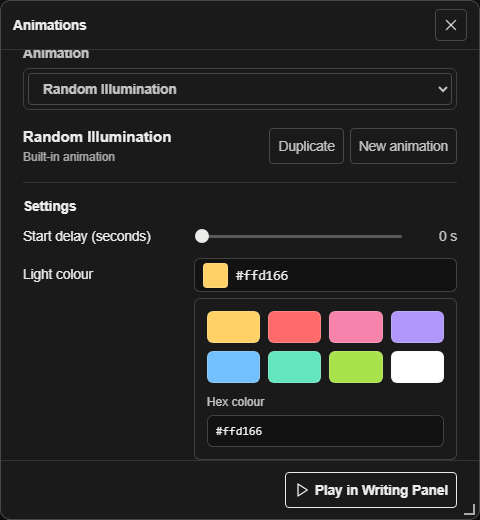
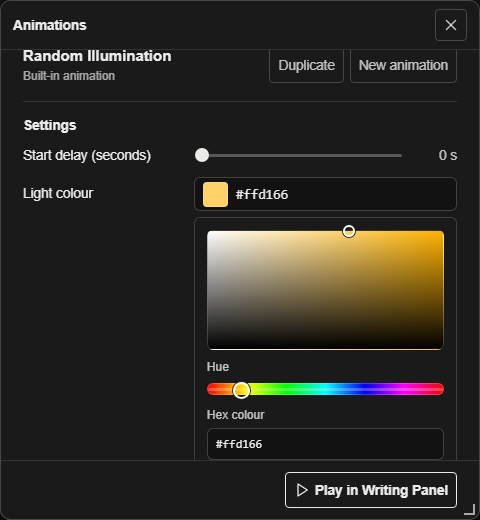
Keep illuminated text sharp and restore continuous colour choice

diff --git a/src/animations/AnimationWindow.tsx b/src/animations/AnimationWindow.tsx
@@ -3,14 +3,9 @@ import { createPortal } from 'react-dom'
 import { Play, X } from 'lucide-react'
 import { markPointerEventHandled } from '../panelSurface'
 import type { AnimationDefinition } from './definitions'
+import { hexToHsv, hsvToHex, type HsvColour } from './colour'
 
 interface Rect { x: number; y: number; width: number; height: number }
-const illuminationColours = [
-  { name: 'Amber', value: '#ffd166' }, { name: 'Coral', value: '#ff6b6b' },
-  { name: 'Pink', value: '#f783ac' }, { name: 'Violet', value: '#b197fc' },
-  { name: 'Blue', value: '#74c0fc' }, { name: 'Teal', value: '#63e6be' },
-  { name: 'Lime', value: '#a9e34b' }, { name: 'White', value: '#ffffff' },
-]
 const isHexColour = (value: string) => /^#[0-9a-f]{6}$/i.test(value)
 let topAnimationLayer = 8
 function viewport(): Rect {
@@ -61,13 +56,30 @@ export function AnimationWindow({ panelId, sourceElement, definitions, selected,
   const [rect, setRect] = useState(() => initialRect(sourceElement))
   const [openColour, setOpenColour] = useState<string | null>(null)
   const [colourText, setColourText] = useState('')
-  const colourPopover = useRef<HTMLDivElement>(null)
+  const [pickerHsv, setPickerHsv] = useState<HsvColour>(() => hexToHsv('#ffd166'))
+  const pickerHsvRef = useRef(pickerHsv)
+  const colourHexInput = useRef<HTMLInputElement>(null)
+  const planePointer = useRef<number | null>(null)
   const colourOpenRef = useRef(false)
   colourOpenRef.current = openColour !== null
   const gesture = useRef<{ pointer: number; element: HTMLElement; mode: 'move' | 'resize'; x: number; y: number; rect: Rect } | null>(null)
 
   useEffect(() => setOpenColour(null), [selected.id])
-  useEffect(() => { if (openColour) colourPopover.current?.scrollIntoView({ block: 'nearest' }) }, [openColour])
+  useEffect(() => { if (openColour) colourHexInput.current?.scrollIntoView({ block: 'nearest' }) }, [openColour])
+
+  function applyColour(id: string, hsv: HsvColour) {
+    pickerHsvRef.current = hsv
+    setPickerHsv(hsv)
+    const hex = hsvToHex(hsv)
+    setColourText(hex)
+    onParameterChange(id, hex)
+  }
+  function moveColourPointer(event: PointerEvent<HTMLDivElement>, id: string) {
+    const bounds = event.currentTarget.getBoundingClientRect()
+    const saturation = Math.min(1, Math.max(0, (event.clientX - bounds.left) / bounds.width))
+    const value = Math.min(1, Math.max(0, 1 - (event.clientY - bounds.top) / bounds.height))
+    applyColour(id, { ...pickerHsvRef.current, saturation, value })
+  }
 
   useEffect(() => {
     root.current?.focus({ preventScroll: true })
@@ -155,19 +167,48 @@ export function AnimationWindow({ panelId, sourceElement, definitions, selected,
           <span>{parameter.label}</span>
           {parameter.type === 'color' ? <div className="animation-color-control">
             <button type="button" className="animation-color-trigger" aria-label={`Choose ${parameter.label.toLowerCase()}`} aria-expanded={openColour === parameter.id} onClick={() => {
-              setColourText(String(parameter.value))
+              const current = isHexColour(String(parameter.value)) ? String(parameter.value) : '#ffd166'
+              const hsv = hexToHsv(current)
+              pickerHsvRef.current = hsv
+              setPickerHsv(hsv)
+              setColourText(current)
               setOpenColour(openColour === parameter.id ? null : parameter.id)
             }}><span className="animation-color-chip" style={{ backgroundColor: String(parameter.value) }} /><span>{parameter.value}</span></button>
-            {openColour === parameter.id && <div ref={colourPopover} className="animation-color-popover" role="group" aria-label={`${parameter.label} picker`}>
-              <div className="animation-color-swatches">{illuminationColours.map(colour => <button key={colour.value} type="button" aria-label={colour.name} title={colour.name} className="animation-color-swatch" style={{ backgroundColor: colour.value }} onClick={() => {
-                setColourText(colour.value)
-                onParameterChange(parameter.id, colour.value)
-              }} />)}</div>
+            {openColour === parameter.id && <div className="animation-color-popover" role="group" aria-label={`${parameter.label} picker`}>
+              <div className="animation-color-plane" role="slider" tabIndex={0} aria-label="Colour shade" aria-valuemin={0} aria-valuemax={100} aria-valuenow={Math.round(pickerHsv.saturation * 100)} aria-valuetext={colourText} style={{ backgroundColor: hsvToHex({ hue: pickerHsv.hue, saturation: 1, value: 1 }) }}
+                onPointerDown={event => {
+                  if (event.button !== 0) return
+                  event.currentTarget.setPointerCapture(event.pointerId)
+                  planePointer.current = event.pointerId
+                  moveColourPointer(event, parameter.id)
+                }}
+                onPointerMove={event => { if (planePointer.current === event.pointerId) moveColourPointer(event, parameter.id) }}
+                onPointerUp={event => { if (planePointer.current === event.pointerId) { planePointer.current = null; event.currentTarget.releasePointerCapture(event.pointerId) } }}
+                onPointerCancel={event => { if (planePointer.current === event.pointerId) planePointer.current = null }}
+                onKeyDown={event => {
+                  const step = 0.02
+                  const next = { ...pickerHsvRef.current }
+                  if (event.key === 'ArrowLeft') next.saturation = Math.max(0, next.saturation - step)
+                  else if (event.key === 'ArrowRight') next.saturation = Math.min(1, next.saturation + step)
+                  else if (event.key === 'ArrowUp') next.value = Math.min(1, next.value + step)
+                  else if (event.key === 'ArrowDown') next.value = Math.max(0, next.value - step)
+                  else return
+                  event.preventDefault()
+                  applyColour(parameter.id, next)
+                }}><span className="animation-color-plane-cursor" style={{ left: `${pickerHsv.saturation * 100}%`, top: `${(1 - pickerHsv.value) * 100}%` }} /></div>
+              <label className="animation-hue-field">Hue
+                <input type="range" aria-label="Hue" min={0} max={360} step={1} value={Math.round(pickerHsv.hue)} onChange={event => applyColour(parameter.id, { ...pickerHsvRef.current, hue: Number(event.target.value) })} />
+              </label>
               <label className="animation-color-hex">Hex colour
-                <input aria-label="Hex colour" value={colourText} maxLength={7} spellCheck={false} aria-invalid={!isHexColour(colourText)} onChange={event => {
+                <input ref={colourHexInput} aria-label="Hex colour" value={colourText} maxLength={7} spellCheck={false} aria-invalid={!isHexColour(colourText)} onChange={event => {
                   const value = event.target.value
                   setColourText(value)
-                  if (isHexColour(value)) onParameterChange(parameter.id, value)
+                  if (isHexColour(value)) {
+                    const hsv = hexToHsv(value)
+                    pickerHsvRef.current = hsv
+                    setPickerHsv(hsv)
+                    onParameterChange(parameter.id, value)
+                  }
                 }} />
               </label>
             </div>}

diff --git a/src/animations/animations.css b/src/animations/animations.css
@@ -38,9 +38,13 @@
 .animation-color-trigger { display: flex; align-items: center; gap: 8px; box-sizing: border-box; width: 100%; height: 34px; padding: 3px 8px; border: 1px solid var(--color-control-border); border-radius: var(--radius-control); background: var(--color-input-bg); color: var(--color-input-text); cursor: pointer; font-family: var(--font-family-code); }
 .animation-color-chip { flex: 0 0 25px; height: 25px; border: 1px solid var(--color-control-border); border-radius: 4px; }
 .animation-color-popover { box-sizing: border-box; width: 100%; margin-top: 6px; padding: 12px; border: 1px solid var(--color-panel-border); border-radius: var(--radius-control); background: var(--panel-content-background); }
-.animation-color-swatches { display: grid; grid-template-columns: repeat(4, 1fr); gap: 8px; }
-.animation-color-swatch { width: 100%; height: 32px; border: 1px solid var(--color-control-border); border-radius: var(--radius-control); cursor: pointer; }
-.animation-color-hex { display: grid; gap: 6px; margin-top: 12px; color: var(--color-text-soft); font-size: var(--type-xs); }
+.animation-color-plane { position: relative; height: 120px; border: 1px solid var(--color-control-border); border-radius: var(--radius-control); background-image: linear-gradient(to top, #000, transparent), linear-gradient(to right, #fff, transparent); cursor: crosshair; touch-action: none; }
+.animation-color-plane:focus-visible { outline: var(--focus-ring-width) solid var(--color-focus-ring); outline-offset: var(--focus-ring-offset); }
+.animation-color-plane-cursor { position: absolute; width: 12px; height: 12px; border: 2px solid #fff; border-radius: 50%; box-shadow: 0 0 0 1px #222; transform: translate(-50%, -50%); pointer-events: none; }
+.animation-hue-field, .animation-color-hex { display: grid; gap: 6px; margin-top: 10px; color: var(--color-text-soft); font-size: var(--type-xs); }
+.animation-hue-field input { appearance: none; height: 12px; margin: 3px 0; border: 1px solid var(--color-control-border); border-radius: 999px; background: linear-gradient(to right, #f00, #ff0, #0f0, #0ff, #00f, #f0f, #f00); cursor: pointer; }
+.animation-hue-field input::-webkit-slider-thumb { appearance: none; width: 17px; height: 17px; border: 2px solid #fff; border-radius: 50%; background: transparent; box-shadow: 0 0 0 1px #222; }
+.animation-hue-field input::-moz-range-thumb { width: 13px; height: 13px; border: 2px solid #fff; border-radius: 50%; background: transparent; box-shadow: 0 0 0 1px #222; }
 .animation-color-hex input { box-sizing: border-box; width: 100%; height: 32px; padding-inline: 8px; border: 1px solid var(--color-control-border); border-radius: var(--radius-control); background: var(--color-input-bg); color: var(--color-input-text); font-family: var(--font-family-code); }
 .animation-color-hex input[aria-invalid='true'] { border-color: var(--color-danger); }
 .animation-window-hint { margin: 0; color: var(--color-text-muted); font-size: var(--type-xs); }

diff --git a/browser-tests/text-animations.spec.ts b/browser-tests/text-animations.spec.ts
@@ -122,8 +122,19 @@ test('illumination colour picker closes on settings clicks and Escape', async ({
   const picker = manager.getByRole('group', { name: 'Light colour picker' })
   await expect(picker).toBeVisible()
   await manager.screenshot({ path: 'test-results/animations-colour-picker.png' })
-  await picker.getByRole('button', { name: 'Coral' }).click()
-  await expect(trigger).toContainText('#ff6b6b')
+  const shade = picker.getByRole('slider', { name: 'Colour shade' })
+  const shadeBox = await shade.boundingBox()
+  await page.mouse.move(shadeBox!.x + shadeBox!.width * 0.35, shadeBox!.y + shadeBox!.height * 0.3)
+  await page.mouse.down()
+  await page.mouse.move(shadeBox!.x + shadeBox!.width * 0.7, shadeBox!.y + shadeBox!.height * 0.45, { steps: 5 })
+  await page.mouse.up()
+  const draggedColour = (await trigger.innerText()).trim()
+  expect(draggedColour).toMatch(/^#[0-9a-f]{6}$/i)
+  expect(draggedColour).not.toBe('#ffd166')
+  const hue = picker.getByRole('slider', { name: 'Hue' })
+  const hueBox = await hue.boundingBox()
+  await hue.click({ position: { x: Math.round(hueBox!.width * 0.6), y: Math.round(hueBox!.height / 2) } })
+  await expect(trigger).not.toContainText(draggedColour)
   await manager.getByText('Words lit at once', { exact: true }).click()
   await expect(picker).toHaveCount(0)
   await trigger.click()
@@ -212,6 +223,7 @@ test('writing stays clear; playback and authoring are separate', async ({ page }
   await expect(manager).toBeVisible()
   await expect.poll(() => panel.locator('.word[data-illuminated="true"]').count()).toBeGreaterThan(0)
   await expect.poll(async () => panel.locator('.word[data-illuminated="true"]').first().evaluate(element => getComputedStyle(element).color)).toBe('rgb(0, 255, 0)')
+  expect(await panel.locator('.word[data-illuminated="true"]').first().evaluate(element => getComputedStyle(element).textShadow)).toBe('none')
   await setLightColour(manager, '#0000ff')
   await expect.poll(async () => panel.locator('.word[data-illuminated="true"]').first().evaluate(element => getComputedStyle(element).color)).toBe('rgb(0, 0, 255)')
   await manager.getByRole('button', { name: 'Close animation window' }).click()

diff --git a/src/animations/colour.ts b/src/animations/colour.ts
@@ -1,0 +1,34 @@
+export interface HsvColour { hue: number; saturation: number; value: number }
+
+const clamp = (value: number, min: number, max: number) => Math.min(max, Math.max(min, value))
+
+export function hexToHsv(hex: string): HsvColour {
+  const red = parseInt(hex.slice(1, 3), 16) / 255
+  const green = parseInt(hex.slice(3, 5), 16) / 255
+  const blue = parseInt(hex.slice(5, 7), 16) / 255
+  const largest = Math.max(red, green, blue)
+  const smallest = Math.min(red, green, blue)
+  const difference = largest - smallest
+  let hue = 0
+  if (difference > 0) {
+    if (largest === red) hue = ((green - blue) / difference) % 6
+    else if (largest === green) hue = (blue - red) / difference + 2
+    else hue = (red - green) / difference + 4
+    hue = (hue * 60 + 360) % 360
+  }
+  return { hue, saturation: largest === 0 ? 0 : difference / largest, value: largest }
+}
+
+export function hsvToHex({ hue, saturation, value }: HsvColour): string {
+  const sector = ((hue % 360) + 360) % 360 / 60
+  const chroma = clamp(value, 0, 1) * clamp(saturation, 0, 1)
+  const second = chroma * (1 - Math.abs(sector % 2 - 1))
+  const offset = clamp(value, 0, 1) - chroma
+  const [red, green, blue] = sector < 1 ? [chroma, second, 0]
+    : sector < 2 ? [second, chroma, 0]
+      : sector < 3 ? [0, chroma, second]
+        : sector < 4 ? [0, second, chroma]
+          : sector < 5 ? [second, 0, chroma]
+            : [chroma, 0, second]
+  return `#${[red, green, blue].map(channel => Math.round((channel + offset) * 255).toString(16).padStart(2, '0')).join('')}`
+}

diff --git a/src/animations/colour.test.ts b/src/animations/colour.test.ts
@@ -1,0 +1,17 @@
+import { describe, expect, it } from 'vitest'
+import { hexToHsv, hsvToHex } from './colour'
+
+describe('continuous illumination colours', () => {
+  it('maps the ends of the hue slider and grayscale correctly', () => {
+    expect(hsvToHex({ hue: 0, saturation: 1, value: 1 })).toBe('#ff0000')
+    expect(hsvToHex({ hue: 120, saturation: 1, value: 1 })).toBe('#00ff00')
+    expect(hsvToHex({ hue: 240, saturation: 1, value: 1 })).toBe('#0000ff')
+    expect(hsvToHex({ hue: 90, saturation: 0, value: 0.5 })).toBe('#808080')
+  })
+
+  it('preserves arbitrary six-digit colours through picker conversion', () => {
+    for (const hex of ['#ffd166', '#12ab34', '#000000', '#ffffff', '#74c0fc']) {
+      expect(hsvToHex(hexToHsv(hex))).toBe(hex)
+    }
+  })
+})

diff --git a/src/animations/definitions.ts b/src/animations/definitions.ts
@@ -20,7 +20,7 @@ export const builtInAnimations: AnimationDefinition[] = [
   },
   {
     formatVersion: 1, id: 'random-illumination', name: 'Random Illumination',
-    css: '.word[data-illuminated="true"] { color: var(--animation-color); text-shadow: 0 0 0.65em var(--animation-color); }',
+    css: '.word[data-illuminated="true"] { color: var(--animation-color); }',
     parameters: [
       startDelayParameter,
       { id: 'color', label: 'Light colour', type: 'color', value: '#ffd166' },

diff --git a/docs/text-animations.md b/docs/text-animations.md
@@ -34,7 +34,7 @@ Open the Writing panel's **···** menu and choose **Animations**. A compact st
 
 Built-in definitions are immutable. Their parameter adjustments are temporary preview settings. Press **Duplicate** to make an editable copy, or **New animation** to start from a simple word rule. A custom animation shows **Unsaved changes** until saved. **Edit CSS** opens its name and CSS fields; built-ins offer **View CSS** as read-only. **Save animation** persists the definition in this browser's `localStorage` under `mic:text-animations:v1`, separate from notes and boards. **Delete** is available only for custom animations and asks for confirmation; deleting the animation currently playing also returns the panel to writing. Closing and reopening the window keeps unsaved edits for the current panel session. Changing the active note, hiding or deleting the source panel, or switching boards closes its window and playback; saved definitions remain available locally.
 
-Random Illumination's **Light colour** opens an in-window palette. Choose a swatch or enter any six-digit hex colour. Clicking elsewhere in Settings or pressing Escape closes the palette; a valid colour updates the current preview immediately.
+Random Illumination's **Light colour** opens an in-window colour area and hue slider. Drag in the area to choose the shade, move the slider to change hue, or enter any six-digit hex colour. Clicking elsewhere in Settings or pressing Escape closes the picker; a valid colour updates the current preview immediately. The built-in animation changes the word colour without a blurred text shadow.
 
 The CSS interface is `.word`, with zero-based `data-index`, total `data-word-count`, and `data-revealed` and `data-illuminated` values of `true` or `false`. For example:
 
